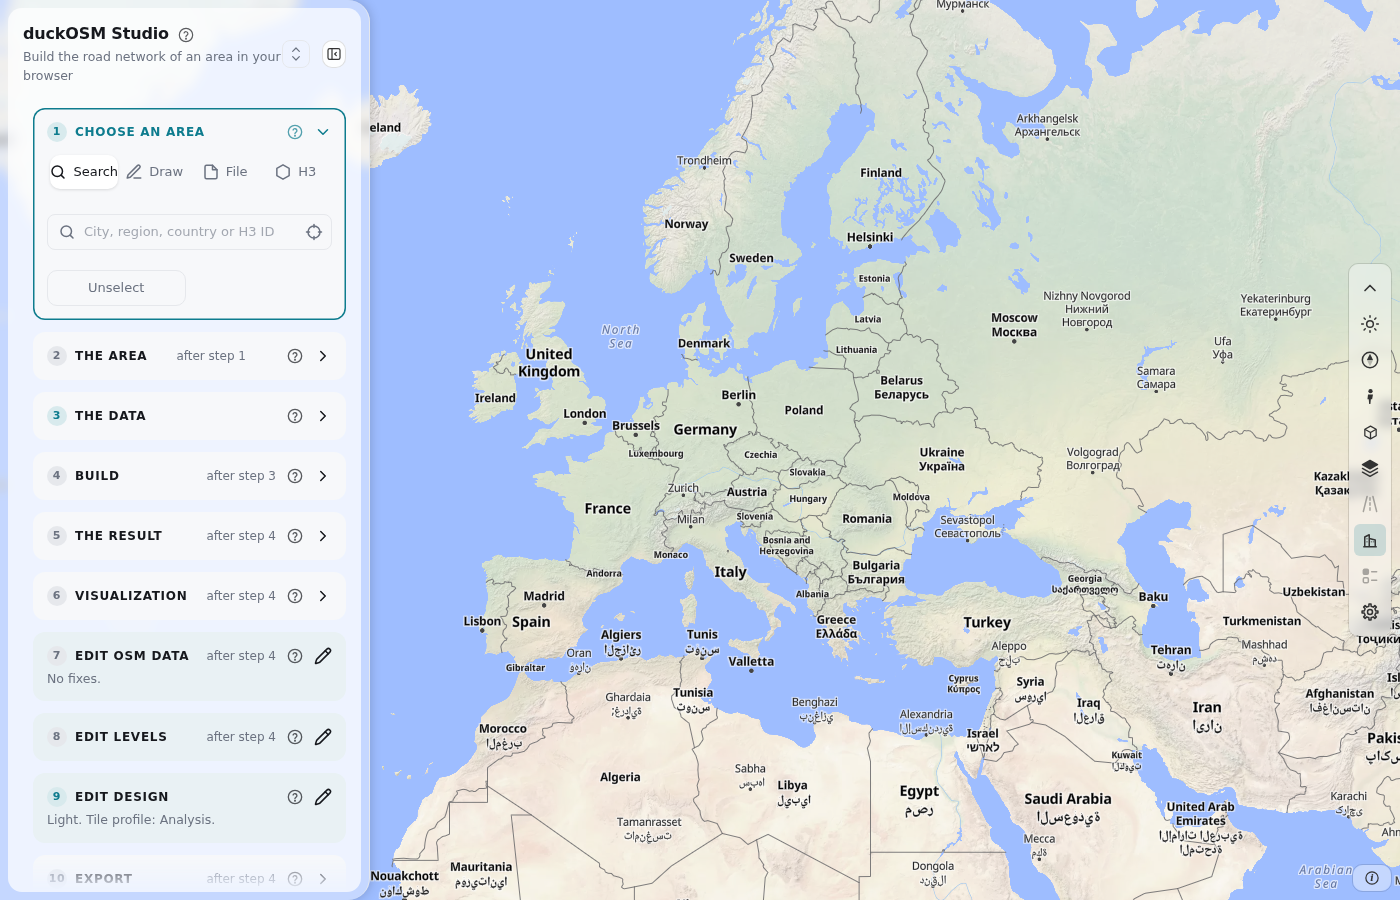
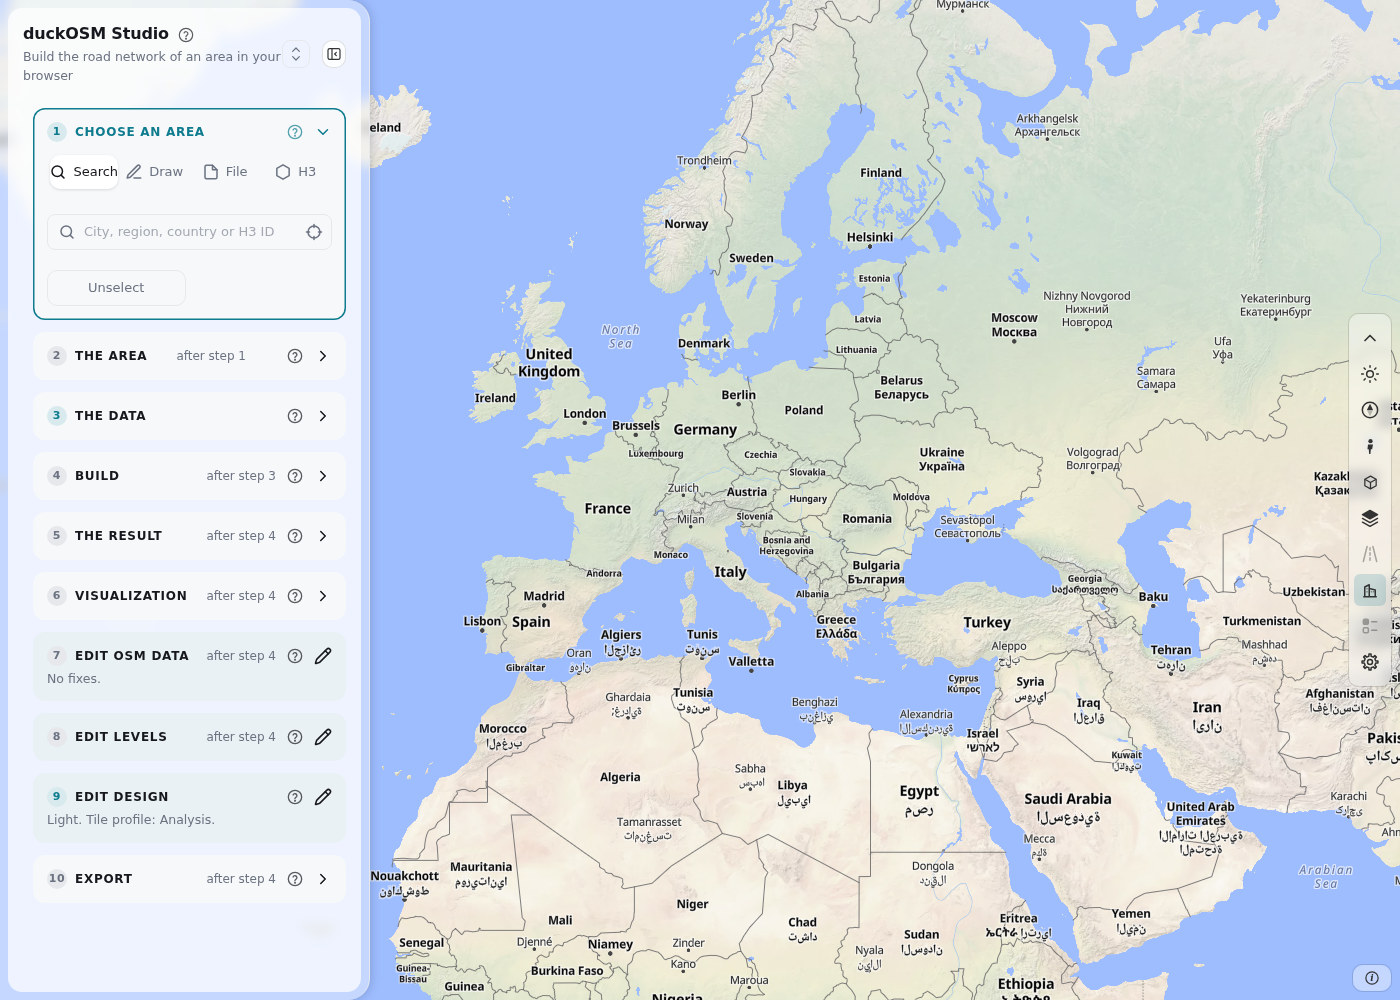
Manual: the start picture shows all ten cards
Kaveh: the picture on the cycle page needs an update. At 1400 x 900 the card Export was cut at the bottom, but the caption
says "the ten cards". docs_shots.py takes 01-start at 1400 x 1000; the new picture is from the live page.

diff --git a/crates/duckosm-wasm/www/docs_shots.py b/crates/duckosm-wasm/www/docs_shots.py
@@ -77,7 +77,10 @@ with sync_playwright() as p:
 
     # 1. the page at the start: the OpenFreeMap base map, the panel with the steps, the bar of tools
     page.wait_for_timeout(2500)
+    page.set_viewport_size({"width": 1400, "height": 1000})       # all ten cards: at 900 the card Export was cut
+    page.wait_for_timeout(1000)
     shot(page, "01-start")
+    page.set_viewport_size({"width": 1400, "height": 900})
 
     # card 1: the four ways to choose an area
     unfold(page, "step1-card")
